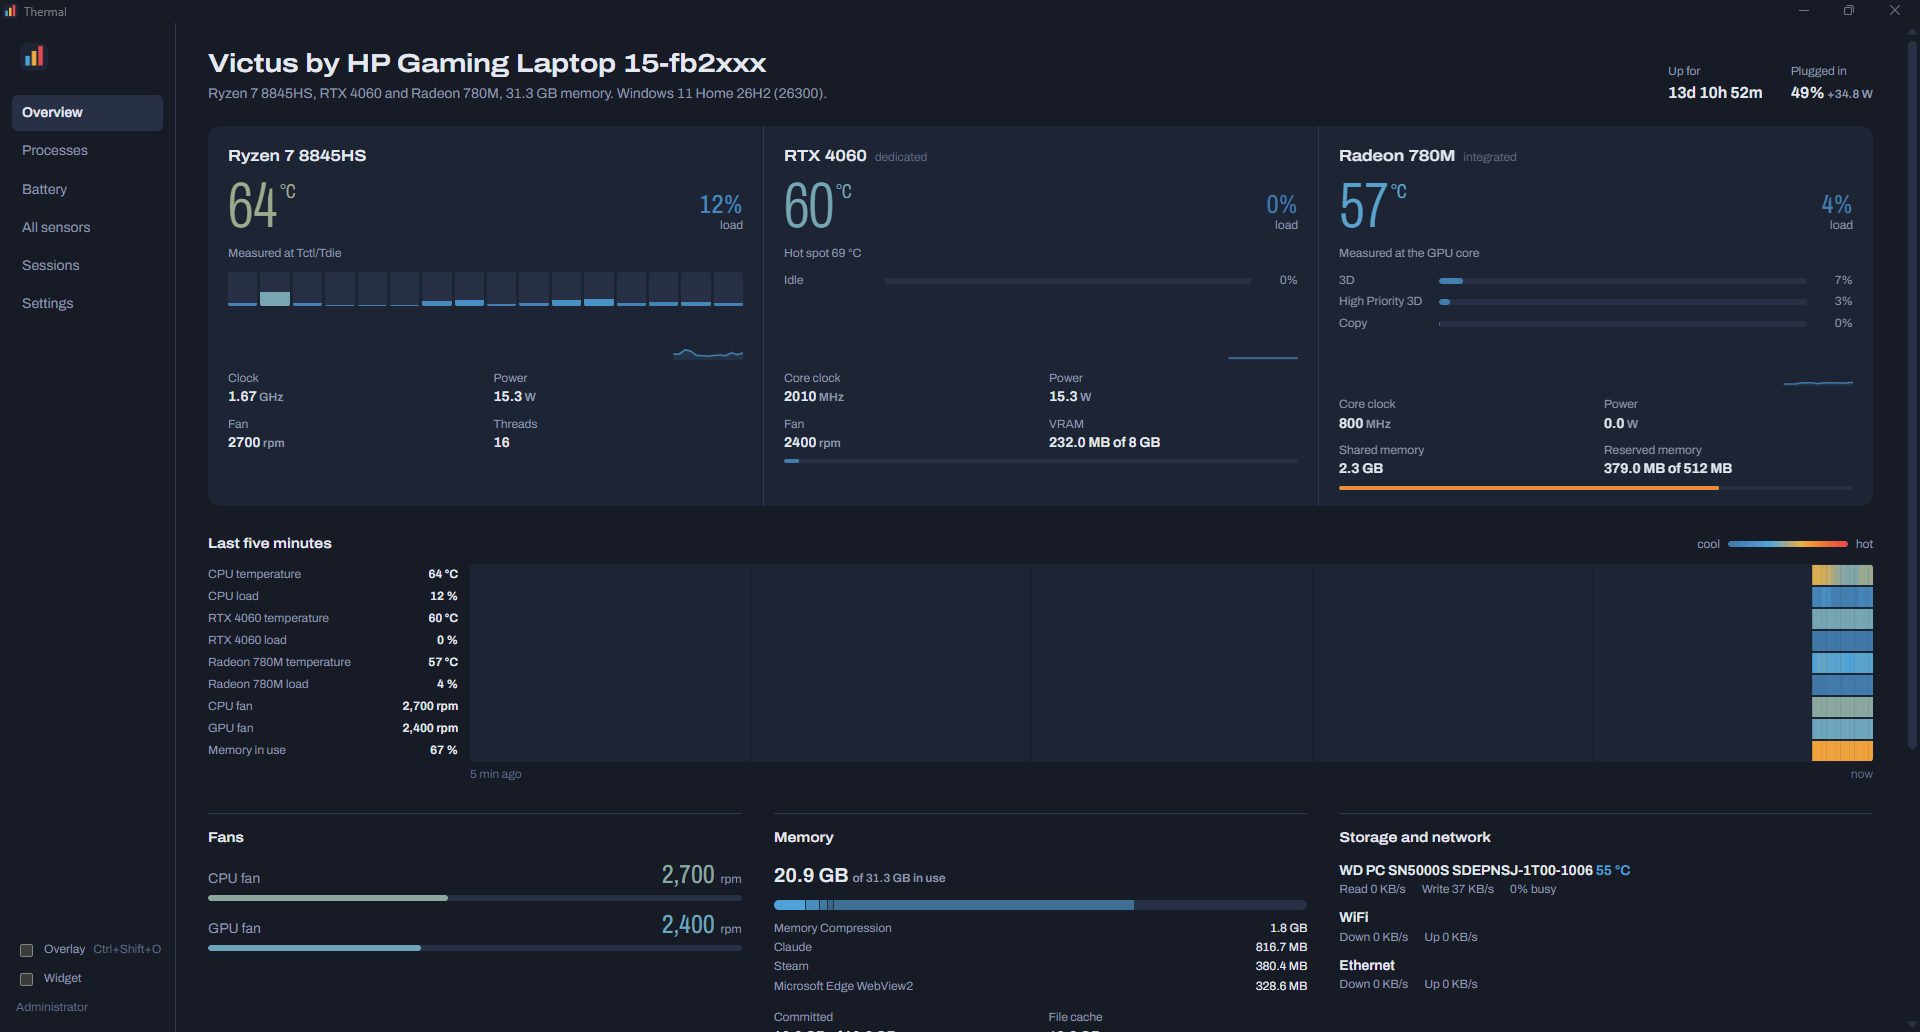
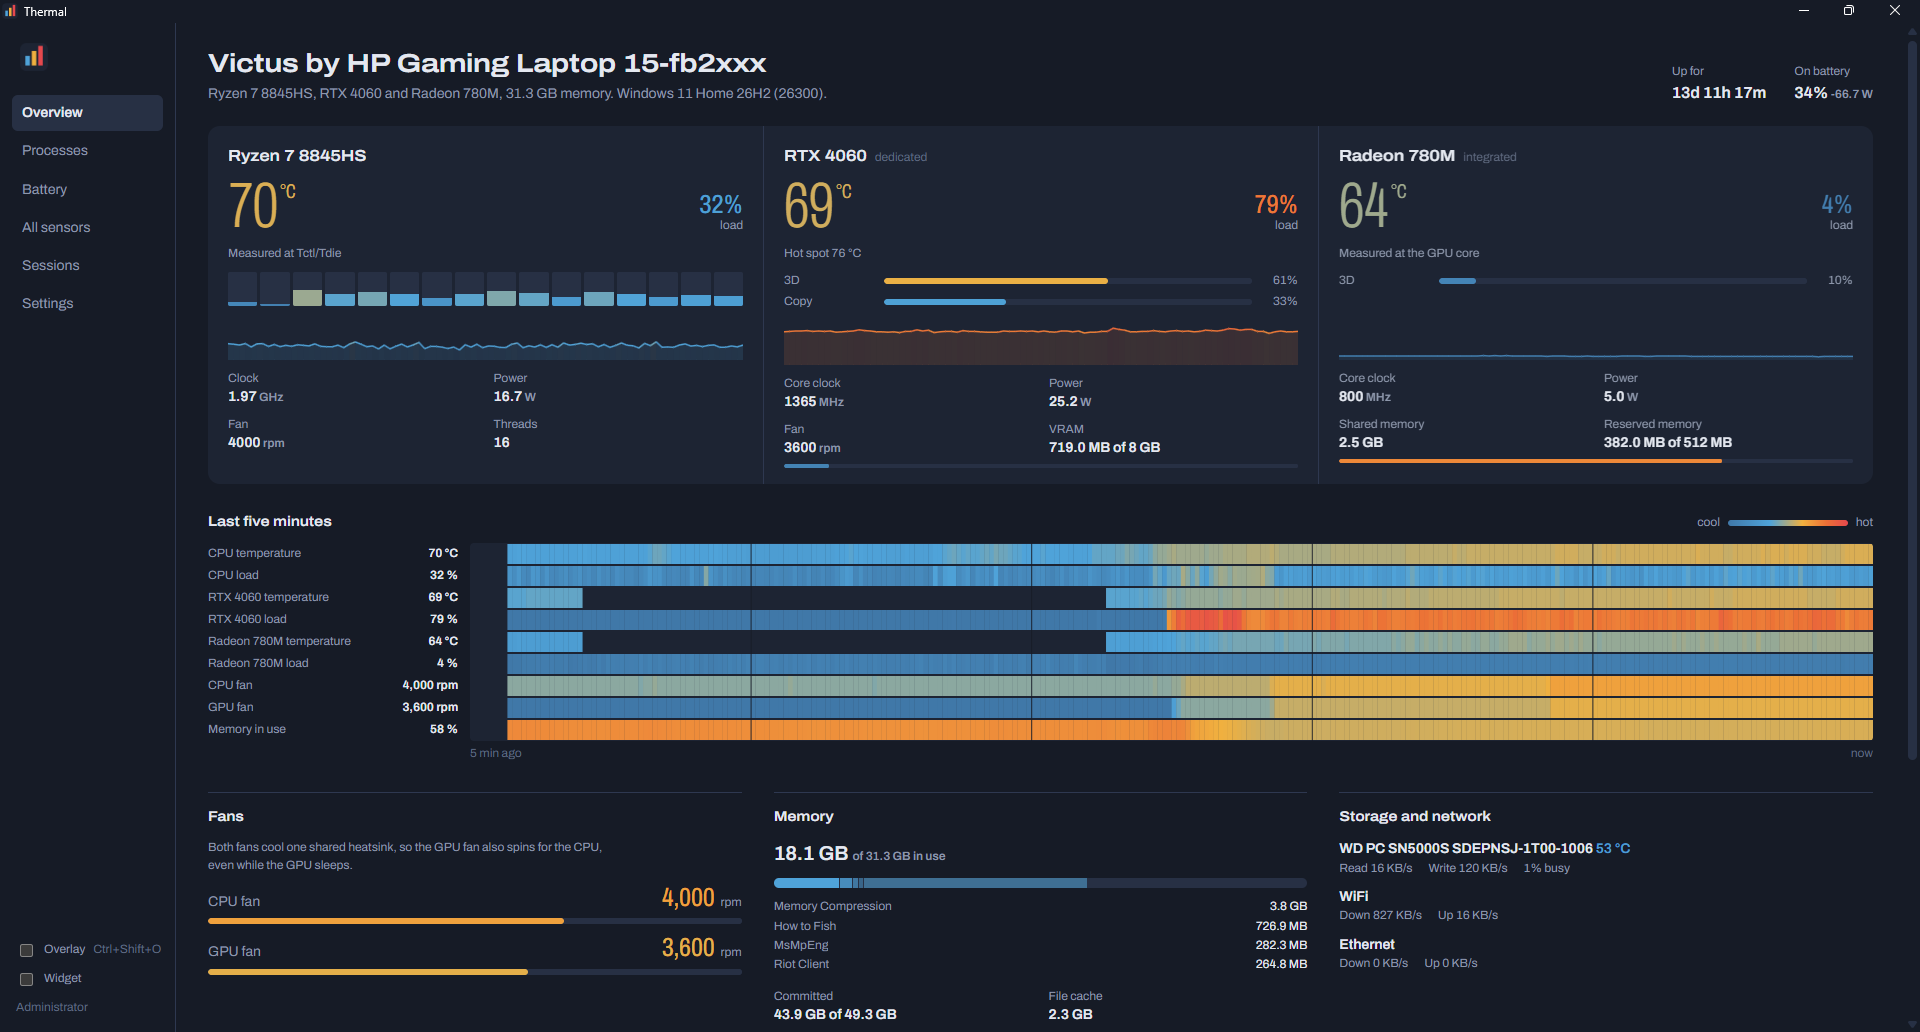
Say why GPU temperatures are missing; README overview with five minutes of history
The interface now knows whether Thermal is connected to the GPU sensors. While
it isn't (so the dedicated GPU can sleep), the integrated GPU reads 'Temp
paused' with the reason, and an awake but idle dedicated GPU reads 'Not in use'
instead of 'No temp sensor'.

diff --git a/ui/src/Overview.tsx b/ui/src/Overview.tsx
@@ -68,6 +68,9 @@ function CpuInstrument({ snap, history }: { snap: Snapshot; history: Map<string,
 function GpuInstrument({ g, snap, history }: { g: Gpu; snap: Snapshot; history: Map<string, Series> }) {
   const fan = g.fanRpm ?? (g.kind === "discrete" ? snap.fans.find((f) => /gpu/i.test(f.name))?.rpm ?? null : null);
   const memPct = g.memUsed != null && g.memTotal ? (100 * g.memUsed) / g.memTotal : null;
+  // Thermal reads all GPU temperatures over one connection, which it keeps closed while no app uses the dedicated GPU.
+  const dgpu = snap.gpus.find((x) => x.kind === "discrete");
+  const paused = g.kind === "integrated" && g.temp == null && !snap.gpuSensorsConnected && !!dgpu;
   return (
     <section className={g.active ? "inst" : "inst asleep"} aria-label={g.name}>
       <h2>
@@ -75,7 +78,20 @@ function GpuInstrument({ g, snap, history }: { g: Gpu; snap: Snapshot; history: 
         <span className="kind">{g.kind === "discrete" ? "dedicated" : "integrated"}</span>
       </h2>
       <div className="inst-top">
-        <Temp c={g.temp} missing={g.kind === "discrete" && !g.active ? "Asleep" : "No reading"} />
+        <Temp
+          c={g.temp}
+          missing={
+            g.kind === "discrete"
+              ? !g.active
+                ? "Asleep"
+                : !snap.gpuSensorsConnected
+                  ? "Not in use"
+                  : "No temp sensor"
+              : paused
+                ? "Temp paused"
+                : "No temp sensor"
+          }
+        />
         <div className="load">
           <span className="load-n" style={{ color: heat(scale.pct(g.load)) }}>{num(g.load)}%</span>
           <span className="load-l">load</span>
@@ -87,7 +103,9 @@ function GpuInstrument({ g, snap, history }: { g: Gpu; snap: Snapshot; history: 
             ? g.active
               ? "Sensors connect while an app uses it"
               : "Asleep, drawing no power"
-            : "Sensors connect while the dedicated GPU is in use"
+            : paused
+              ? `Paused while no app uses the ${shortGpu(dgpu!.name, snap.cpu.name)}, so it can sleep. This GPU shares the CPU die, so the CPU temperature is a close guide.`
+              : "This GPU doesn't report a temperature"
           : g.hotspot != null
             ? `Hot spot ${Math.round(g.hotspot)} °C`
             : "Measured at the GPU core"}

diff --git a/ui/src/bridge.ts b/ui/src/bridge.ts
@@ -91,6 +91,7 @@ function mock(): Snapshot {
     notes: [{ id: "pawnio", text: "CPU die temperature and package power need the PawnIO driver, a small signed driver that sensor tools use to read the processor. Without it the temperature shown is an estimate.", action: "installPawnIO" }],
     fps: phase % 40 < 25 ? { pid: 4412, name: "cyberpunk2077", fps: wave(4, 88, 40), frameTimeMs: 8.4, low1: 71 } : null,
     recording: null,
+    gpuSensorsConnected: true,
     power: {
       onBattery: true,
       drainW: 24.6,

diff --git a/ui/src/types.ts b/ui/src/types.ts
@@ -94,6 +94,8 @@ export interface Snapshot {
   fps: Nullable<{ pid: number; name: string; fps: number; frameTimeMs: number; low1: Nullable<number> }>;
   recording: Nullable<Recording>;
   power: Nullable<PowerInfo>;
+  /** False while Thermal is disconnected from GPU sensors so the dedicated GPU can sleep. */
+  gpuSensorsConnected: boolean;
 }
 
 export interface AppPower {

diff --git a/app/Telemetry/Collector.cs b/app/Telemetry/Collector.cs
@@ -117,7 +117,7 @@ internal sealed class Collector : IDisposable
             DateTimeOffset.UtcNow.ToUnixTimeMilliseconds(),
             new MachineInfo(_machineName, _model, _os, Environment.TickCount64 / 1000, _elevated),
             cpu, gpus, fans, BuildMemory(), BuildBattery(), BuildDisks(), BuildNet(), procInfos, BuildSensors(), notes.ToArray());
-        return snap with { Power = _power.Build(snap, procs, _gpuLuids, _dgpuOn, _gpuOpen && UsersOfDgpu(procs).Count == 0, PathOf) };
+        return snap with { GpuSensorsConnected = _gpuOpen, Power = _power.Build(snap, procs, _gpuLuids, _dgpuOn, _gpuOpen && UsersOfDgpu(procs).Count == 0, PathOf) };
     }
 
     /// <summary>Apps (not Windows itself, not Thermal) holding real work or memory on the dedicated GPU.</summary>

diff --git a/app/Telemetry/Snapshot.cs b/app/Telemetry/Snapshot.cs
@@ -20,4 +20,4 @@ public record SensorInfo(string Hw, string Type, string Name, double? Value, dou
 public record Snapshot(
     long T, MachineInfo Machine, CpuInfo Cpu, GpuInfo[] Gpus, FanInfo[] Fans, MemoryInfo Memory, BatteryInfo? Battery,
     DiskInfo[] Disks, NetInfo[] Net, ProcInfo[] Processes, SensorInfo[] Sensors, Note[] Notes,
-    FpsInfo? Fps = null, RecordingInfo? Recording = null, PowerInfo? Power = null);
+    FpsInfo? Fps = null, RecordingInfo? Recording = null, PowerInfo? Power = null, bool GpuSensorsConnected = true);
